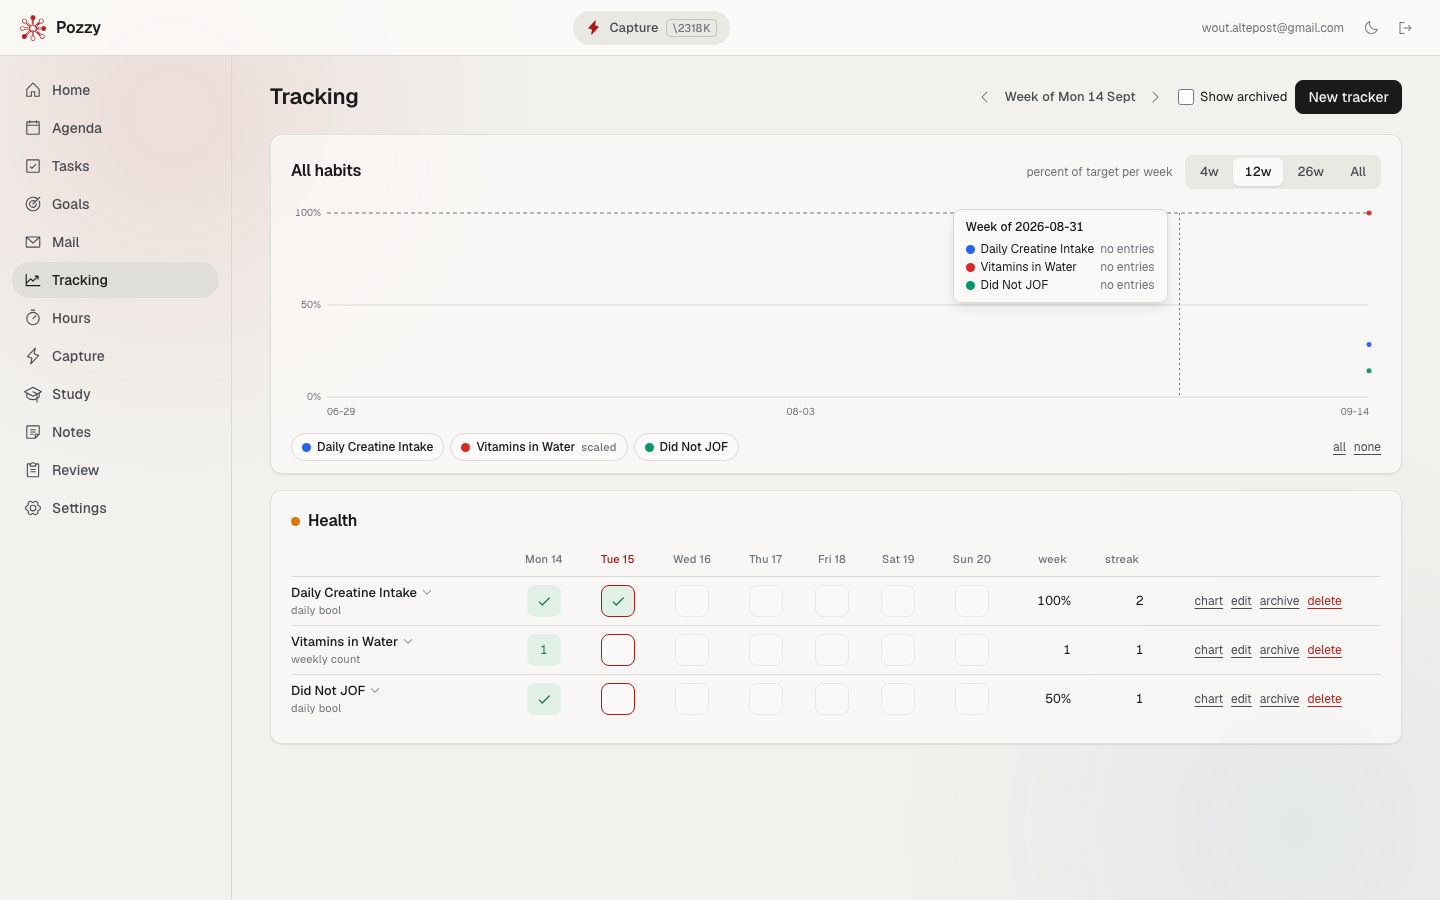
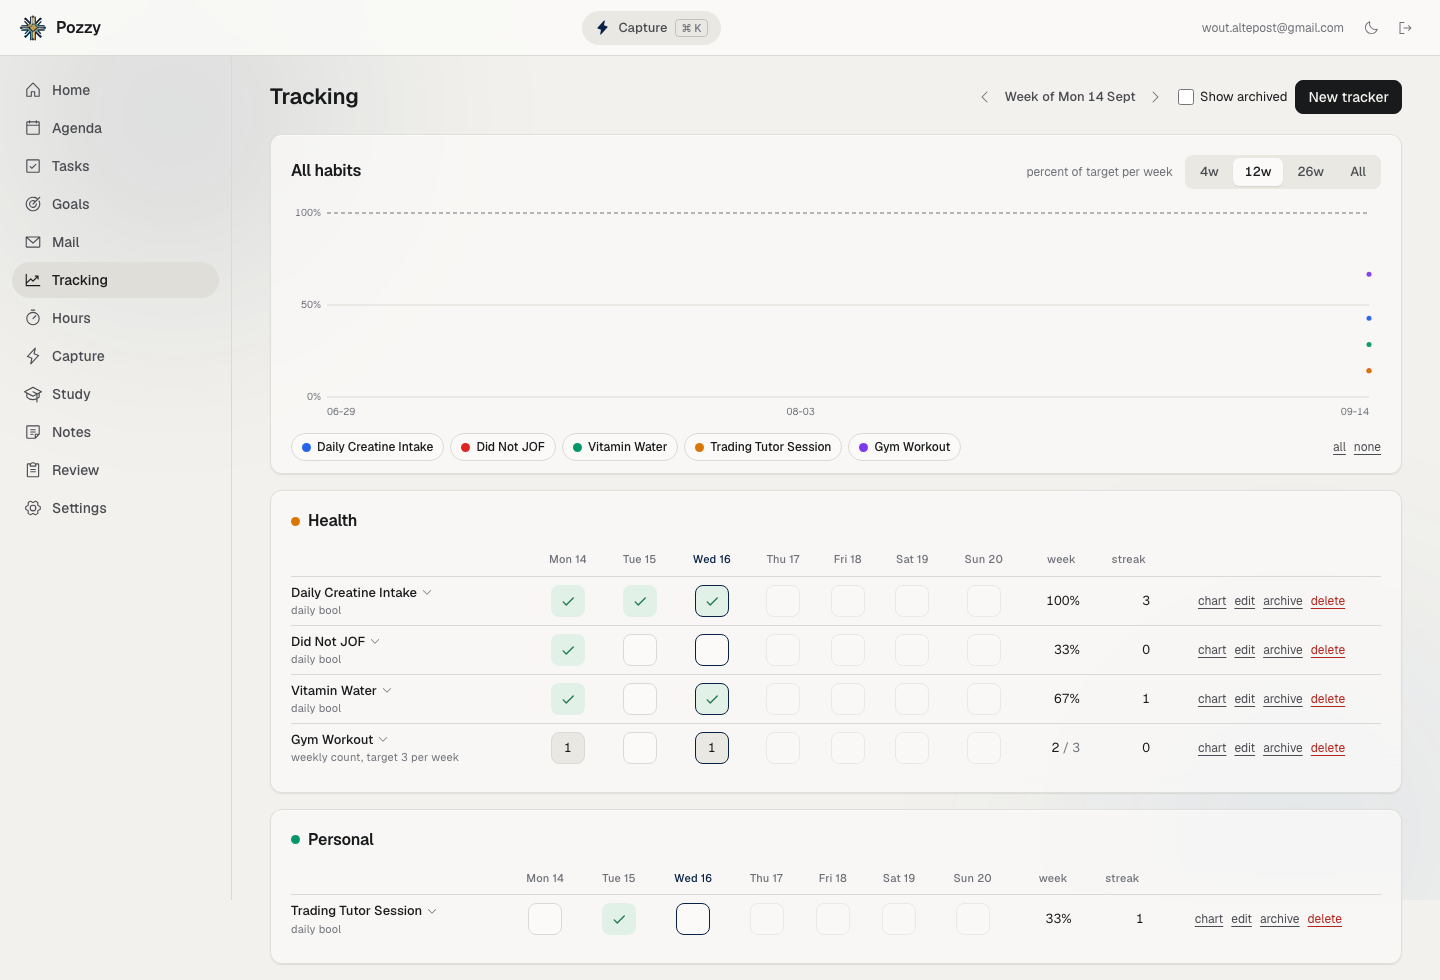
Trackers: phone day cells no longer share the desktop table cell class
The phone pass named its 22px week cells .cell, which is also the class of the
desktop table cells, so the table ticks shrank. Renamed to .dcell.

Claude-Session: https://claude.ai/code/session_01DYgp4dwYRCj1iuPHw1SNsQ

diff --git a/web/src/views/TrackersView.vue b/web/src/views/TrackersView.vue
@@ -171,7 +171,7 @@ function remove(t) {
           <div class="wrow">
             <button type="button" class="tname" :aria-expanded="Boolean(charts[t.id])" @click="toggleChart(t)"><span class="dot" :style="{ background: t.area_color || 'var(--ink-3)' }"></span>{{ t.name }}</button>
             <span class="cells">
-              <button v-for="d in t.days" :key="d.date" type="button" class="cell" :class="[cellState(t, d), { today: d.date === today() }]" :aria-label="`${t.name} ${d.date}`" :disabled="d.date > today()" @click="cellTap(t, d)">{{ cellText(t, d) }}</button>
+              <button v-for="d in t.days" :key="d.date" type="button" class="dcell" :class="[cellState(t, d), { today: d.date === today() }]" :aria-label="`${t.name} ${d.date}`" :disabled="d.date > today()" @click="cellTap(t, d)">{{ cellText(t, d) }}</button>
             </span>
             <button type="button" class="link-btn edit" @click="editing = t">edit</button>
           </div>
@@ -265,11 +265,11 @@ function remove(t) {
 .wrow .tname { overflow: hidden; text-overflow: ellipsis; display: block; }
 .wrow .tname .dot { display: inline-block; margin-right: 8px; vertical-align: middle; }
 .cells { display: flex; gap: 4px; }
-.cell { width: 22px; height: 22px; border-radius: var(--r-sm); border: 0; padding: 0; background: var(--surface-2); color: var(--ink-3); font-size: var(--fs-xs); font-weight: 500; display: inline-flex; align-items: center; justify-content: center; }
-.cell.hit { background: var(--ok-soft); color: var(--ok); }
-.cell.part { background: var(--warn-soft); color: var(--warn); }
-.cell.future { background: transparent; }
-.cell.today { box-shadow: 0 0 0 1px var(--brand) inset; }
+.dcell { width: 22px; height: 22px; border-radius: var(--r-sm); border: 0; padding: 0; background: var(--surface-2); color: var(--ink-3); font-size: var(--fs-xs); font-weight: 500; display: inline-flex; align-items: center; justify-content: center; }
+.dcell.hit { background: var(--ok-soft); color: var(--ok); }
+.dcell.part { background: var(--warn-soft); color: var(--warn); }
+.dcell.future { background: transparent; }
+.dcell.today { box-shadow: 0 0 0 1px var(--brand) inset; }
 .wrow .edit { font-size: var(--fs-xs); }
 .pchart { padding: 4px 0 10px; }
 .check { display: flex; align-items: center; gap: 6px; font-size: var(--fs-md); white-space: nowrap; }
